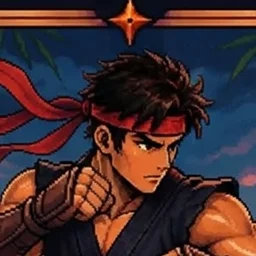
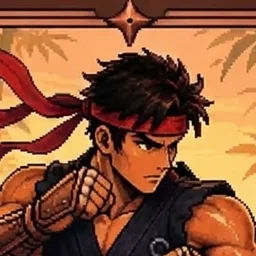
Cartas do Ronin por classe (masculino e feminino) e Guerreiro do Ninja com moldura de bronze

diff --git a/public/app.js b/public/app.js
@@ -3468,7 +3468,7 @@
   const sexoArte = () => (S.arte === "f" || S.arte === "m" ? S.arte : /^fem/.test(norm(S.quiz?.sexo === "f" ? "feminino" : S.quiz?.sexo === "m" ? "masculino" : nutriSexo())) ? "f" : "m");
   // Estilos que já têm uma carta para cada classe (Ninja Recruta … Ninja Imortal): o personagem evolui dentro do próprio estilo.
   // Os outros estilos continuam com as cartas genéricas das classes até ganharem as suas.
-  const NIVEIS_ARTE = new Set(["ninja"]);
+  const NIVEIS_ARTE = new Set(["ninja", "ronin"]);
   const estiloComNiveis = () => { try { const e = estiloAtual().slug; return NIVEIS_ARTE.has(e) ? e : null; } catch { return null; } };
   const avatarClasse = (slug) => { const e = estiloComNiveis(), g = sexoArte(); return e ? `assets/estilos/niveis/avatar/${e}-${g}-${slug}.webp` : `assets/classes/avatar/${slug}-${g}.webp`; };
   const cartaClasse = (slug, g = sexoArte()) => { const e = estiloComNiveis(); return e ? `assets/estilos/niveis/${e}-${g}-${slug}.webp` : `assets/classes/cartas/${slug}-${g}.webp`; };
